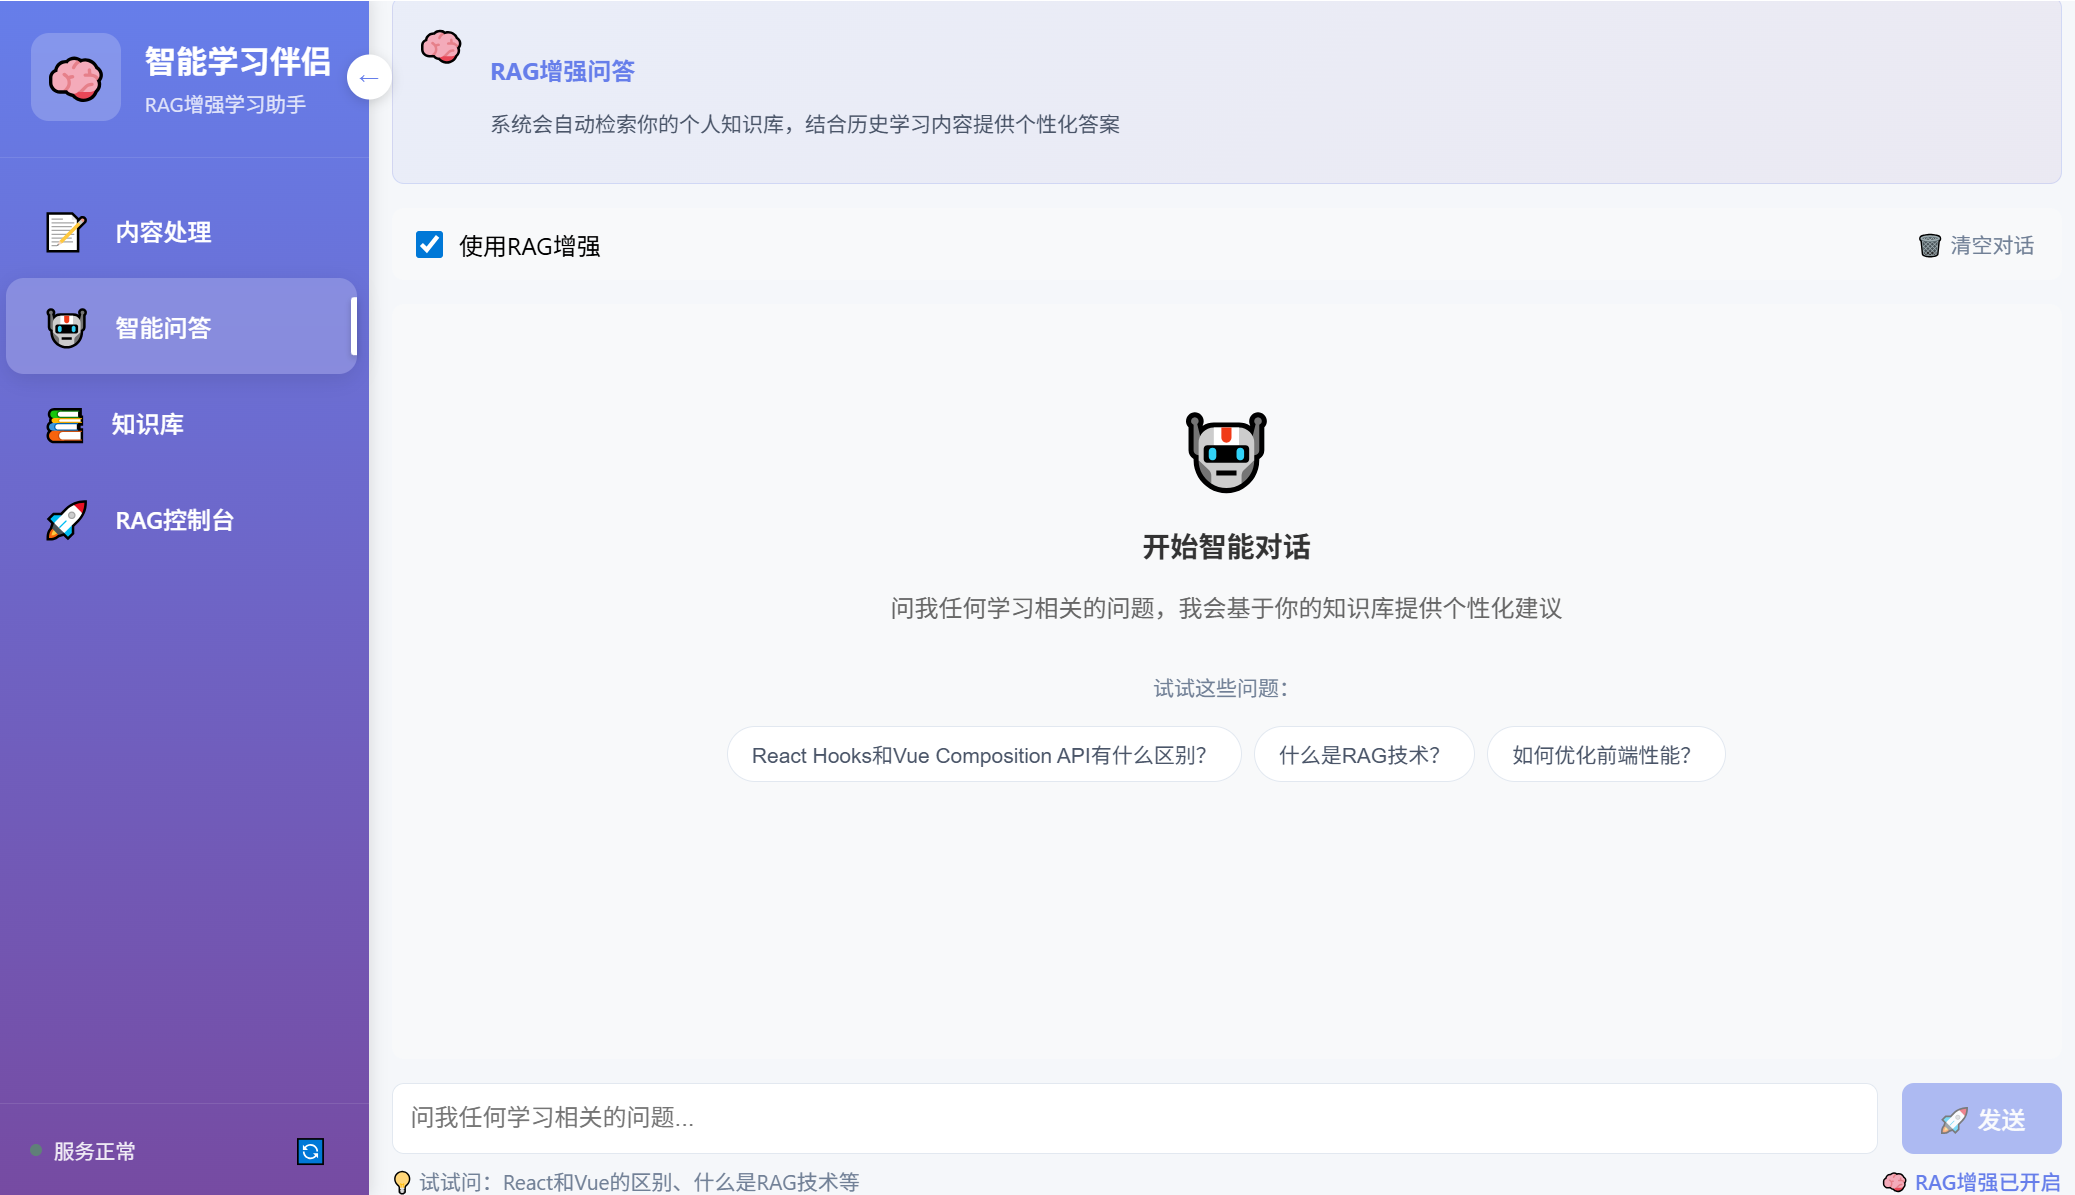
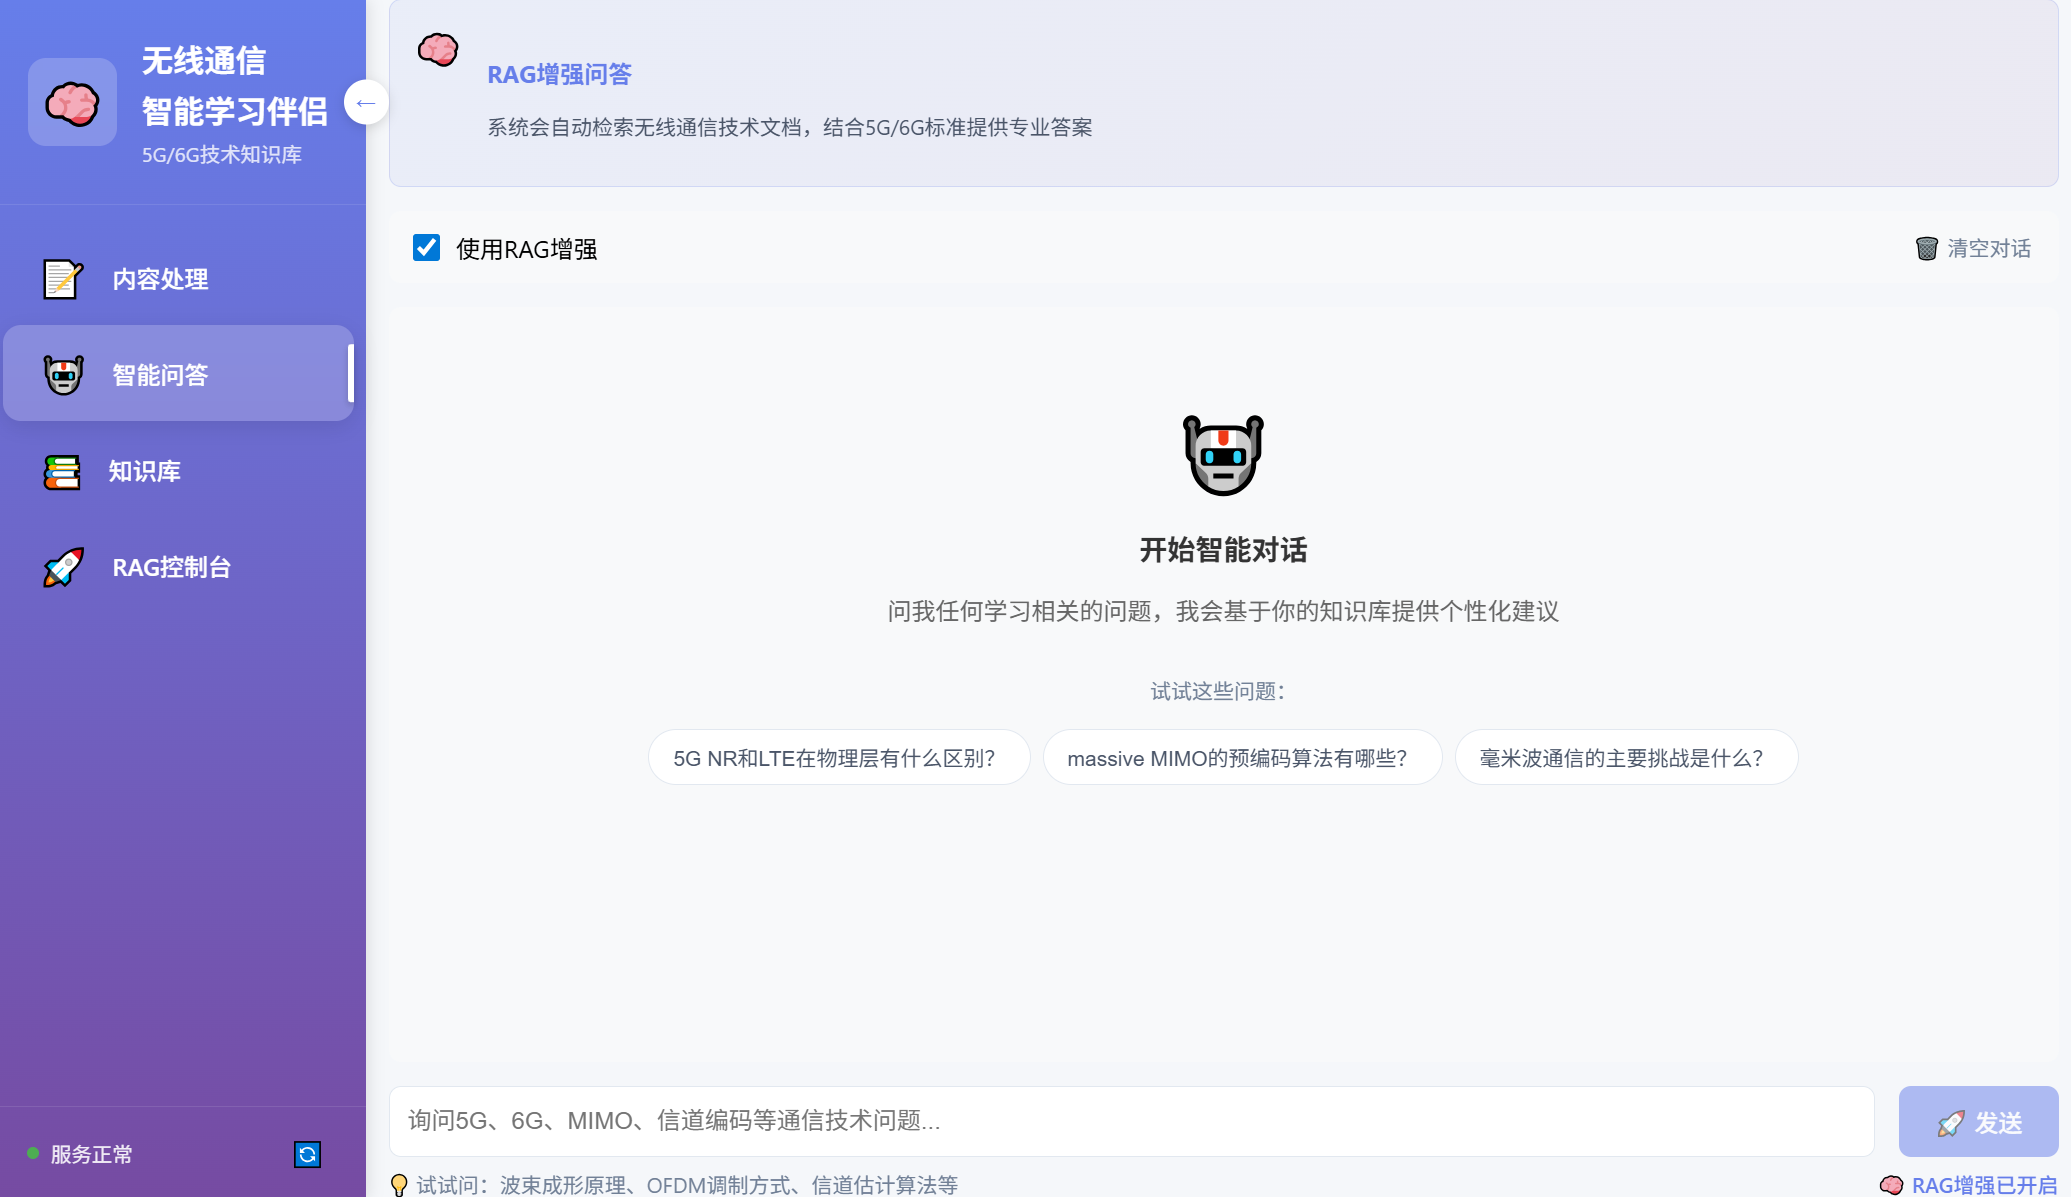
update KnowledgeBase

diff --git a/backend/services/evaluation.js b/backend/services/evaluation.js
@@ -6,73 +6,81 @@ import logger from "../config/logger.js";
 class EvaluationService {
   constructor() {
     this.testDatasets = {
-      // 标准问答对，用于准确率评估
       qaDataset: [
         {
-          question: "什么是React Hooks？",
+          question: "5G NR的物理层关键技术有哪些？",
           expectedKeywords: [
-            "函数组件",
-            "状态管理",
-            "生命周期",
-            "useState",
-            "useEffect",
+            "massive MIMO",
+            "波束成形",
+            "毫米波",
+            "LDPC编码",
+            "极化码",
           ],
-          category: "frontend",
+          category: "5G技术",
         },
         {
-          question: "RAG技术的核心组件有哪些？",
-          expectedKeywords: ["检索", "生成", "向量", "embedding", "语义搜索"],
-          category: "ai",
-        },
-        {
-          question: "如何优化前端性能？",
-          expectedKeywords: ["压缩", "缓存", "懒加载", "代码分割", "CDN"],
-          category: "performance",
-        },
-        {
-          question: "MongoDB和MySQL的区别？",
-          expectedKeywords: ["NoSQL", "文档数据库", "关系型", "ACID", "扩展性"],
-          category: "database",
-        },
-        {
-          question: "什么是微服务架构？",
+          question: "massive MIMO系统的预编码算法原理？",
           expectedKeywords: [
-            "服务拆分",
-            "独立部署",
-            "API通信",
-            "分布式",
-            "容器",
+            "线性预编码",
+            "ZF",
+            "MMSE",
+            "信道状态信息",
+            "空间复用",
           ],
-          category: "architecture",
+          category: "MIMO技术",
+        },
+        {
+          question: "OFDM调制的优缺点是什么？",
+          expectedKeywords: [
+            "多载波",
+            "循环前缀",
+            "频率选择性衰落",
+            "PAPR",
+            "同步",
+          ],
+          category: "调制技术",
+        },
+        {
+          question: "信道编码中LDPC和Turbo码的区别？",
+          expectedKeywords: [
+            "迭代译码",
+            "校验矩阵",
+            "码率",
+            "译码复杂度",
+            "性能",
+          ],
+          category: "信道编码",
+        },
+        {
+          question: "毫米波通信面临的主要挑战？",
+          expectedKeywords: [
+            "路径损耗",
+            "穿透能力",
+            "波束管理",
+            "硬件复杂度",
+            "干扰",
+          ],
+          category: "毫米波技术",
         },
       ],
 
-      // 检索测试集，用于召回率评估
       retrievalDataset: [
         {
-          query: "React Hooks使用方法",
-          relevantDocs: [
-            "react_hooks_guide",
-            "frontend_best_practices",
-            "component_state_management",
-          ],
+          query: "5G波束成形技术原理",
+          relevantDocs: ["5g_beamforming", "mimo_precoding", "antenna_array"],
           totalRelevant: 3,
         },
         {
-          query: "向量数据库原理",
-          relevantDocs: [
-            "vector_database_intro",
-            "embedding_algorithms",
-            "similarity_search",
-          ],
+          query: "LDPC编码算法实现",
+          relevantDocs: ["ldpc_encoding", "channel_coding", "error_correction"],
           totalRelevant: 3,
         },
         {
-          query: "Node.js性能优化",
+          query: "毫米波信道建模方法",
           relevantDocs: [
-            "nodejs_performance",
-            "backend_optimization",
-            "server_tuning",
+            "mmwave_channel",
+            "path_loss_model",
+            "fading_analysis",
           ],
           totalRelevant: 3,
         },

diff --git a/backend/services/enhancedRAG.js b/backend/services/enhancedRAG.js
@@ -672,24 +672,24 @@ class EnhancedRAGService {
   generateMockResults(query, topK) {
     const mockData = [
       {
-        title: "RAG技术详解",
+        title: "5G NR物理层技术详解",
         content:
-          "RAG(Retrieval-Augmented Generation)是检索增强生成技术，结合了信息检索和文本生成。它通过检索相关文档为大语言模型提供上下文，从而生成更准确、更有针对性的回答。RAG技术包括文档处理、向量化、检索、生成等步骤。使用HuggingFace的sentence-transformers模型可以大大提升向量质量。",
+          "5G新无线(NR)物理层采用了多项关键技术，包括massive MIMO、灵活的帧结构、先进的信道编码等。massive MIMO通过大规模天线阵列实现空间复用和波束成形，显著提升频谱效率。LDPC码和极化码作为信道编码方案，在不同场景下提供最优性能。毫米波频段的引入扩展了可用频谱资源...",
       },
       {
-        title: "React Hooks 完全指南",
+        title: "massive MIMO预编码算法研究",
         content:
-          "React Hooks 是 React 16.8 引入的新特性，允许在函数组件中使用状态和其他React特性。常用的Hooks包括useState、useEffect、useContext等。useState用于在函数组件中添加状态，useEffect用于处理副作用，如数据获取、订阅等。Hooks让函数组件拥有了类组件的所有能力。",
+          "massive MIMO系统中，预编码技术是实现空间复用的关键。线性预编码算法包括迫零(ZF)和最小均方误差(MMSE)等。ZF预编码通过消除用户间干扰实现空间分离，而MMSE预编码在抑制干扰的同时考虑噪声影响。非线性预编码如脏纸编码可以进一步提升性能，但复杂度较高...",
       },
       {
-        title: "语义搜索与向量数据库",
+        title: "毫米波通信系统设计挑战",
         content:
-          "语义搜索通过理解文本含义而非简单关键词匹配来检索信息。它使用向量embedding技术将文本转换为高维向量，然后通过向量相似度计算找到语义相关的内容。HuggingFace提供了多种预训练的sentence transformer模型，如all-MiniLM-L6-v2等。",
+          "毫米波通信面临严峻的传播特性挑战。高频段信号的高路径损耗和有限穿透能力要求采用高增益天线和波束成形技术。波束管理包括波束搜索、波束跟踪和波束恢复等过程。硬件非理想特性如相位噪声、功率放大器非线性等也需要在系统设计中考虑...",
       },
       {
-        title: "前端性能优化最佳实践",
+        title: "6G愿景与关键技术展望",
         content:
-          "前端性能优化包括多个层面：资源加载优化（压缩、缓存、CDN）、渲染优化（虚拟滚动、懒加载）、代码分割（按需加载）等。React应用可以使用React.memo、useMemo、useCallback等优化手段。webpack的代码分割和Tree Shaking也是重要的优化技术。",
+          "6G移动通信系统预计在2030年商用，将实现更高的数据速率、更低的时延和更广的连接。关键技术包括太赫兹通信、智能超表面、全息通信等。太赫兹频段提供极大带宽但传播损耗巨大。智能超表面通过可编程的电磁响应优化无线环境。空天地一体化网络架构将扩展覆盖范围...",
       },
     ];
 

diff --git a/backend/services/aiService.js b/backend/services/aiService.js
@@ -54,14 +54,22 @@ class AIService {
    * @param {String} currentContent - 当前学习内容
    */
   async ragAnswer(question, context = [], currentContent = "") {
-    const systemPrompt = `你是一个专业的学习助手，基于提供的知识库内容和当前学习材料来回答问题。
-    
-规则：
-1. 优先使用提供的上下文信息回答
-2. 如果上下文不足，可以基于你的知识补充
-3. 回答要准确、专业、易懂
-4. 适当使用例子和类比帮助理解
-5. 标注信息来源（来自知识库/当前内容/通用知识）`;
+    const systemPrompt = `你是一个专业的无线通信技术专家，基于5G/6G标准文档和通信技术资料来回答问题。
+
+专业领域：
+- 5G/6G移动通信技术
+- 大规模MIMO和波束成形
+- OFDM/OFDMA调制技术  
+- 信道编码和信道估计
+- 毫米波和太赫兹通信
+- 网络切片和边缘计算
+
+回答规则：
+1. 优先引用3GPP标准、IEEE论文等权威文档
+2. 使用准确的技术术语和参数规范
+3. 提供具体的技术原理和实现方法
+4. 标注信息来源（标准文档/技术论文/行业报告）
+5. 回答要专业、准确、有技术深度`;
 
     const contextText =
       context.length > 0
@@ -138,18 +146,20 @@ class AIService {
    * @param {String} title - 标题
    */
   async generateStructuredNotes(content, title = "") {
-    const systemPrompt = `你是一个学习笔记专家，擅长将内容转换为结构化的学习笔记。
+    const systemPrompt = `你是无线通信技术文档整理专家，擅长将通信技术资料转换为结构化笔记。
 
 笔记格式要求：
 1. 使用Markdown格式
 2. 包含以下部分：
-   - 核心概念（定义和解释）
-   - 关键要点（重要知识点列表）
-   - 实例分析（如果有的话）
-   - 总结归纳
-   - 相关标签（自动提取3-5个）
+   - 技术概述（定义和应用场景）
+   - 核心原理（算法和技术细节）
+   - 标准规范（3GPP/IEEE标准引用）
+   - 性能指标（关键参数和性能要求）
+   - 实现挑战（技术难点和解决方案）
+   - 发展趋势（未来演进方向）
 3. 使用清晰的层级结构
-4. 重要内容用**粗体**标注`;
+4. 重要技术参数用**粗体**标注
+5. 自动提取通信领域标签`;
 
     const userPrompt = title
       ? `标题：${title}\n\n内容：${content}`

diff --git a/frontend/src/components/ChatInterface.vue b/frontend/src/components/ChatInterface.vue
@@ -10,7 +10,7 @@
       <div class="info-icon">🧠</div>
       <div>
         <h4>RAG增强问答</h4>
-        <p>系统会自动检索你的个人知识库，结合历史学习内容提供个性化答案</p>
+        <p>系统会自动检索无线通信技术文档，结合5G/6G标准提供专业答案</p>
       </div>
     </div>
 
@@ -83,7 +83,7 @@
         v-model="currentQuestion"
         @keyup.enter="sendQuestion"
         type="text"
-        placeholder="问我任何学习相关的问题..."
+        placeholder="询问5G、6G、MIMO、信道编码等通信技术问题..."
         class="question-input"
         :disabled="isLoading"
       />
@@ -97,7 +97,7 @@
     </div>
 
     <div class="input-hint">
-      💡 试试问：React和Vue的区别、什么是RAG技术等
+      💡 试试问：波束成形原理、OFDM调制方式、信道估计算法等
       <span v-if="useRAG" class="rag-status">🧠 RAG增强已开启</span>
     </div>
   </div>
@@ -116,9 +116,9 @@ const isLoading = ref(false);
 
 // 示例问题
 const exampleQuestions = [
-  'React Hooks和Vue Composition API有什么区别？',
-  '什么是RAG技术？',
-  '如何优化前端性能？'
+  '5G NR和LTE在物理层有什么区别？',
+  'massive MIMO的预编码算法有哪些？', 
+  '毫米波通信的主要挑战是什么？'
 ];
 
 // 发送问题

diff --git a/frontend/src/components/RAGConsole.vue b/frontend/src/components/RAGConsole.vue
@@ -33,7 +33,7 @@
                  style="display: none">
           <div class="upload-content" @click="$refs.fileInput.click()">
             <div class="upload-icon">📤</div>
-            <p>拖拽文件到这里或点击上传</p>
+            <p>拖拽3GPP标准、IEEE论文到这里或点击上传</p>
             <p class="file-types">支持: TXT, MD, PDF, JSON</p>
           </div>
         </div>
@@ -79,7 +79,7 @@
       <div class="query-section">
         <div class="query-input-container">
           <textarea v-model="queryText" 
-                    placeholder="输入查询问题..."
+                    placeholder="输入通信技术问题，如：5G波束成形、LDPC编码、信道估计..."
                     rows="3"
                     class="query-input"></textarea>
           

diff --git a/frontend/src/App.vue b/frontend/src/App.vue
@@ -7,8 +7,9 @@
         <div class="logo-section" v-if="!sidebarCollapsed">
           <span class="logo">🧠</span>
           <div class="app-info">
+            <h2>无线通信</h2>
             <h2>智能学习伴侣</h2>
-            <p class="subtitle">RAG增强学习助手</p>
+            <p class="subtitle">5G/6G技术知识库</p>
           </div>
         </div>
         <span class="logo-only" v-else>🧠</span>
@@ -73,7 +74,7 @@
         <div v-show="currentTab === 'chat'" class="tab-panel">
           <div class="page-header">
             <h1>🤖 智能问答</h1>
-            <p>基于个人知识库的智能问答系统</p>
+            <p>基于无线通信知识库的智能问答系统</p>
           </div>
           <ChatInterface />
         </div>

diff --git a/frontend/src/components/KnowledgeBase.vue b/frontend/src/components/KnowledgeBase.vue
@@ -101,8 +101,8 @@
       </div>
 
       <div v-else class="empty-state">
-        <p>📝 还没有学习笔记</p>
-        <small>去「内容处理」页面生成你的第一条笔记吧！</small>
+        <p>📡 还没有通信技术文档</p>
+        <small>去「内容处理」页面添加3GPP标准、IEEE论文等文档吧！</small>
       </div>
     </div>
 
@@ -181,7 +181,7 @@
                 v-model="editForm.tagsString" 
                 type="text" 
                 class="form-input"
-                placeholder="例如：React, 前端开发, 学习笔记"
+                placeholder="搜索5G标准、MIMO技术、信道模型等..."
               />
             </div>
             

diff --git a/frontend/src/components/ContentInput.vue b/frontend/src/components/ContentInput.vue
@@ -12,7 +12,7 @@
         <input 
           v-model="title" 
           type="text" 
-          placeholder="例如：React Hooks 学习总结"
+          placeholder="例如：5G NR物理层技术总结"
           class="text-input"
         />
       </div>
@@ -27,7 +27,7 @@
         <textarea 
           v-model="content"
           rows="12"
-          placeholder="粘贴或输入你要学习的内容..."
+          placeholder="粘贴或输入3GPP标准、IEEE论文、技术报告等内容..."
           class="content-textarea"
         ></textarea>
       </div>

diff --git a/frontend/index.html b/frontend/index.html
@@ -3,7 +3,7 @@
   <head>
     <meta charset="UTF-8" />
     <meta name="viewport" content="width=device-width, initial-scale=1.0" />
-    <title>智能学习伴侣 - 基于RAG的个性化学习助手</title>
+    <title>无线通信智能学习伴侣 - 基于RAG的个性化学习助手</title>
     <meta
       name="description"
       content="使用AI技术帮助你更好地学习，支持智能问答、内容摘要、结构化笔记等功能"
